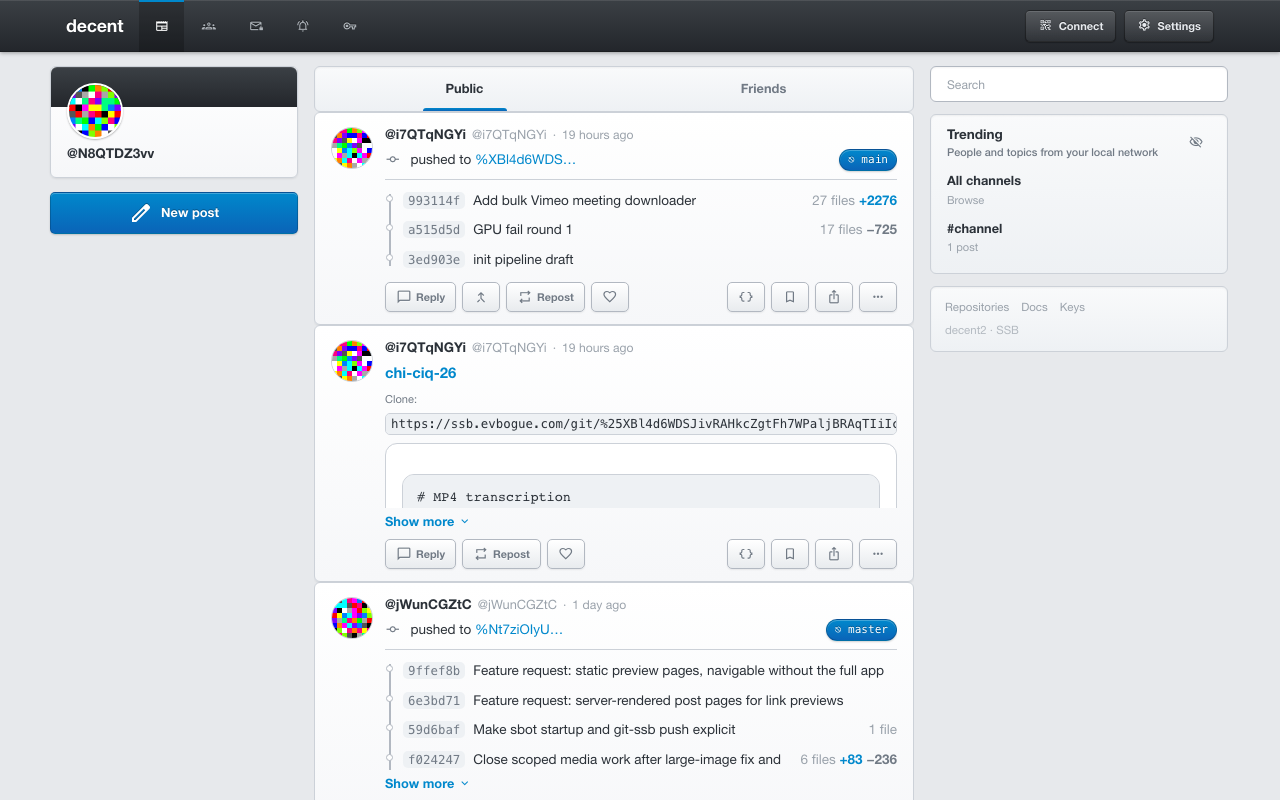
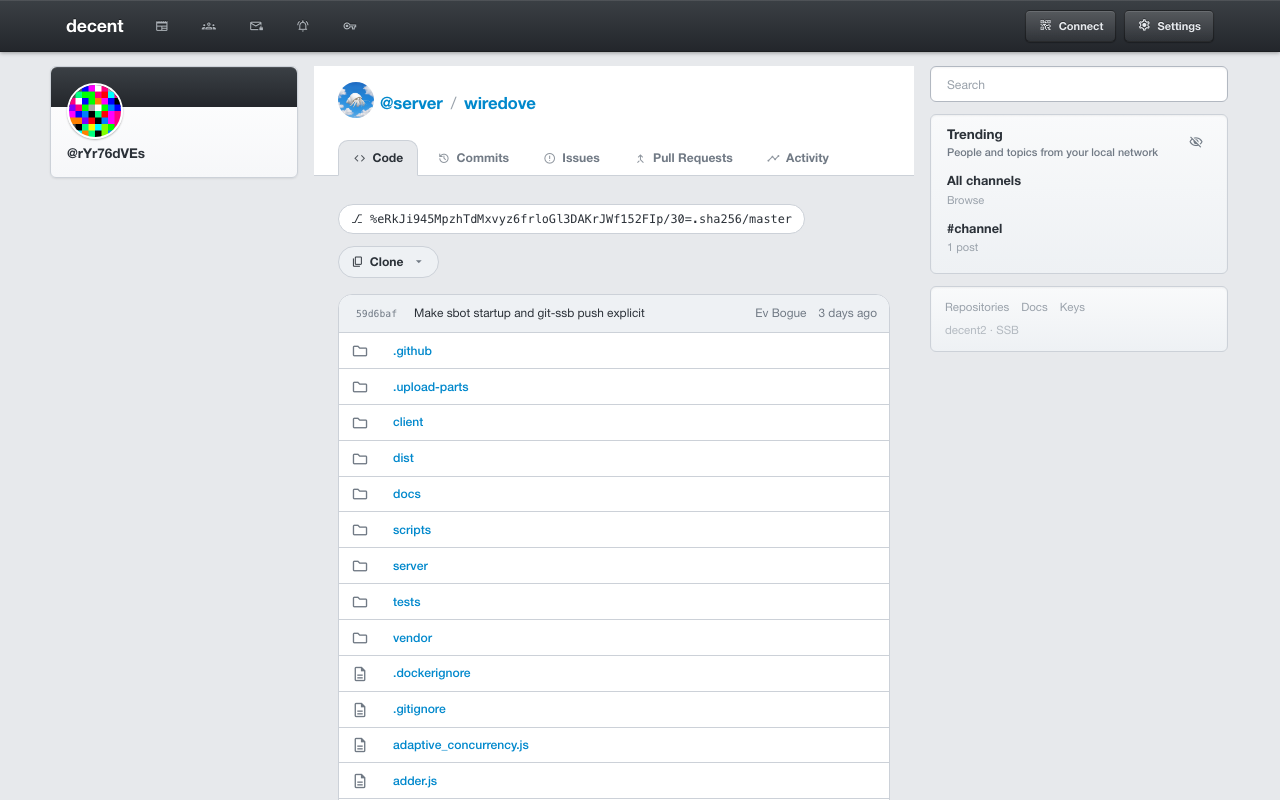
Show Wiredove forge after profile images load

diff --git a/scripts/screenshot_projects.js b/scripts/screenshot_projects.js
@@ -54,14 +54,34 @@ for (const project of targets) {
   const out = `${outDir}/${project.slug}.png`
   try {
     const page = await context.newPage()
-    const response = await page.goto(project.url, { waitUntil: "domcontentloaded", timeout: 45000 })
+    const response = await page.goto(project.screenshotUrl || project.url, { waitUntil: "domcontentloaded", timeout: 45000 })
     if (!response?.ok()) throw new Error(`HTTP ${response?.status()}`)
     // A successful HTTP response can still be an empty application shell.
     await page.waitForFunction(() => document.body.innerText.trim().length > 200, null, { timeout: 120000 })
     await page.evaluate(() => document.fonts.ready)
-    await page.waitForTimeout(5000)
+    if (project.screenshotContentSelector) {
+      await page.locator(project.screenshotContentSelector).first().waitFor({ state: "visible", timeout: 60000 })
+    }
+    if (project.screenshotReadySelector) {
+      await page.locator(project.screenshotReadySelector).waitFor({ state: "visible", timeout: 60000 })
+    }
+    // Allow asynchronous profiles to replace initial identicons, then require
+    // all visible images (including avatar photos) to finish decoding.
+    await page.waitForTimeout(15000)
+    await page.waitForFunction(() => [...document.images].filter(image => {
+      const r = image.getBoundingClientRect()
+      return r.width > 0 && r.height > 0 && r.bottom > 0 && r.top < innerHeight
+    }).every(image => image.complete && image.naturalWidth > 0), null, { timeout: 60000 })
+    await page.evaluate(async () => {
+      const visible = [...document.images].filter(image => {
+        const r = image.getBoundingClientRect()
+        return r.width > 0 && r.height > 0 && r.bottom > 0 && r.top < innerHeight
+      })
+      await Promise.all(visible.map(image => image.decode()))
+    })
     await page.screenshot({ path: out })
     project.screenshotDate = new Intl.DateTimeFormat("en-CA", { timeZone: "America/Chicago" }).format(new Date())
+    project.screenshotVersion = String(Date.now())
     delete project.screenshotNote
     ok++
     console.log(`✓ ${project.slug} → ${out}`)

diff --git a/serve.js b/serve.js
@@ -666,9 +666,7 @@ function projectCardHtml(project, shots) {
     : (project.url ? (project.urlLabel || project.name) : project.name);
 
   const media = shot
-    ? `<img src="${escapeHtml(shot + (project.screenshotDate ? `?v=${project.screenshotDate}` : ""))}" alt="Screenshot of ${
-      escapeHtml(project.name)
-    }" loading="lazy">`
+    ? `<img src="${escapeHtml(shot + (project.screenshotDate ? `?v=${project.screenshotVersion || project.screenshotDate}` : ""))}" alt="${escapeHtml(project.screenshotAlt || `Screenshot of ${project.name}`)}" loading="lazy">`
     : `<div class="project-frame" aria-hidden="true">
          <div class="project-frame-bar"><span></span><span></span><span></span><em>${
       escapeHtml(addr)
@@ -711,7 +709,7 @@ function projectCardHtml(project, shots) {
       <a class="project-shot${
     shot ? "" : " project-shot--placeholder"
   }" href="${
-    escapeHtml(primary)
+    escapeHtml(project.screenshotUrl || primary)
   }"${primaryAttrs}>
         ${media}
       </a>

diff --git a/AGENTS.md b/AGENTS.md
@@ -585,3 +585,19 @@ Validation: frozen Deno checks; all 18 existing backend/host tests; local browse
 checks at 1280px, 390px, and 320px including light/dark, image loads and horizontal
 overflow. User requested local review/no push earlier in this conversation;
 this change is intentionally local, with no deployment or remote publication.
+
+## Projects page release and forge screenshot — 2026-11-12
+
+Ev subsequently authorized push and deployment. The initial revamp `8d86aa0`
+was verified on GitHub and git-ssb and deployed with its original runtime argv
+and environment preserved. Public copy, CSS and three fresh image hashes matched;
+1280px/390px/320px light/dark checks showed loaded images, no overflow or JS errors.
+Backup: `/root/deploy-backups/projects-8d86aa0-20261112/`. Existing server-only
+files were hash-checked unchanged; proxy untouched.
+
+Follow-up requested: show the Wiredove repository in Decent's git-ssb forge,
+using the replicated default branch available on the public node. Capture waits for the repo owner's blob-backed
+avatar, then visible image loading/decoding and fonts. The initial anonymous
+visitor identicon is expected and is not replaced with someone else's identity.
+Screenshot links and alt text identify the forge; a per-capture version prevents
+same-day stale image caches. Wiredove's older app screenshot remains labeled.
